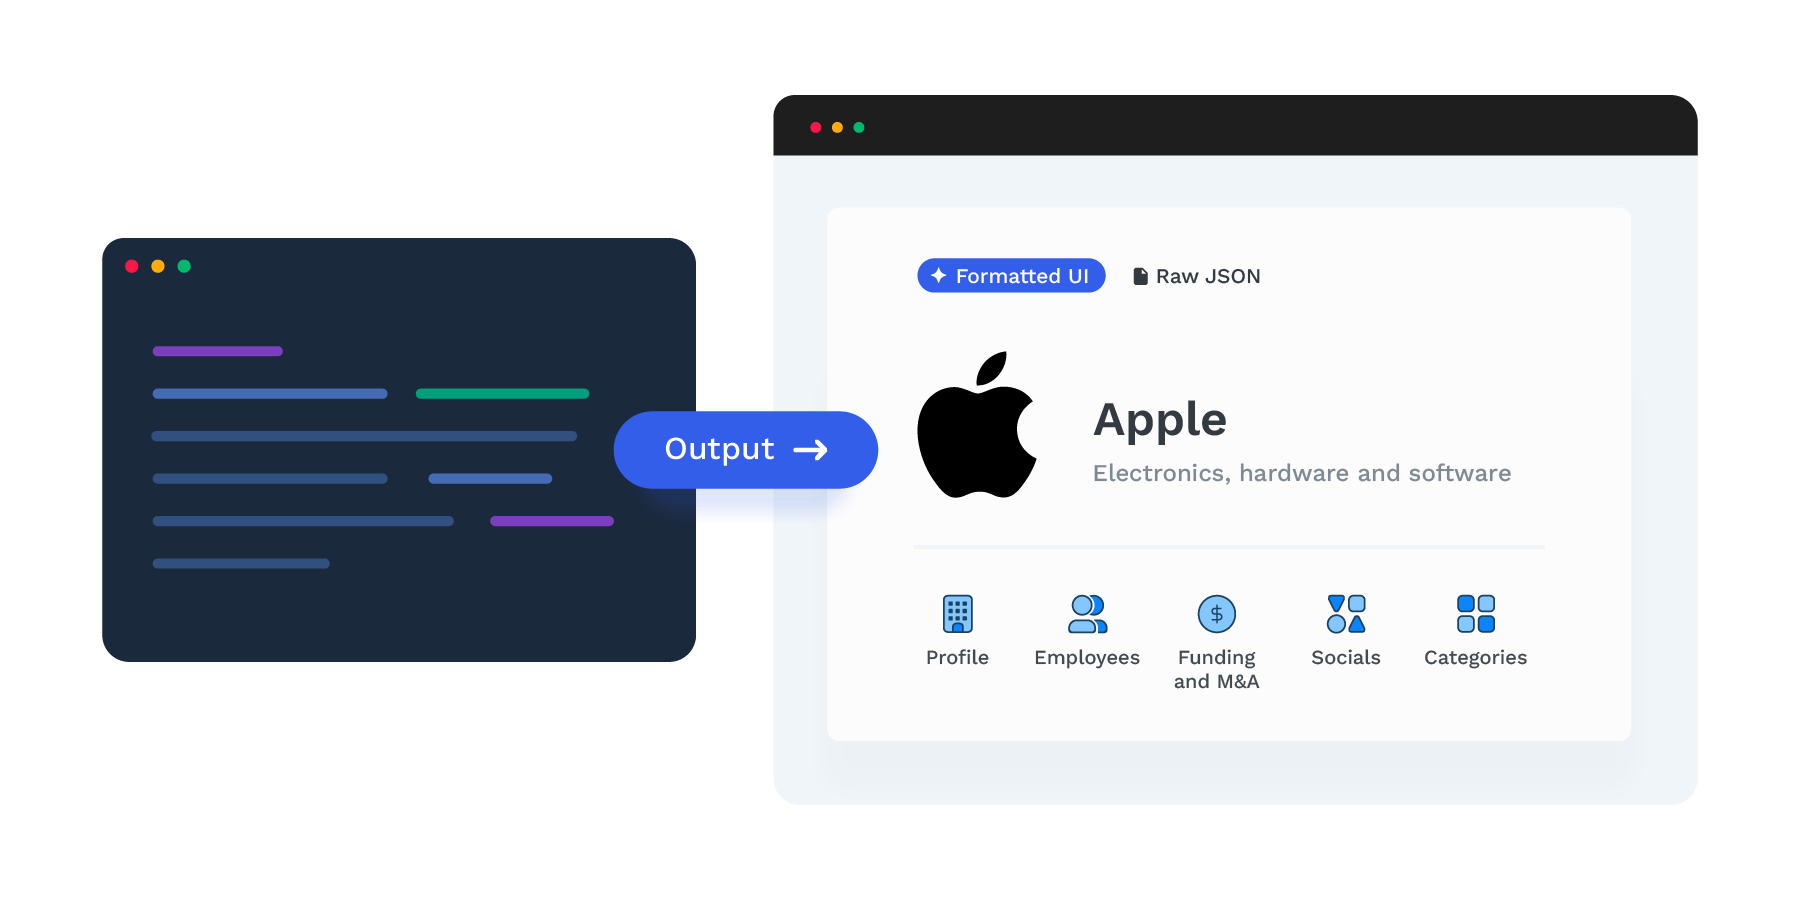
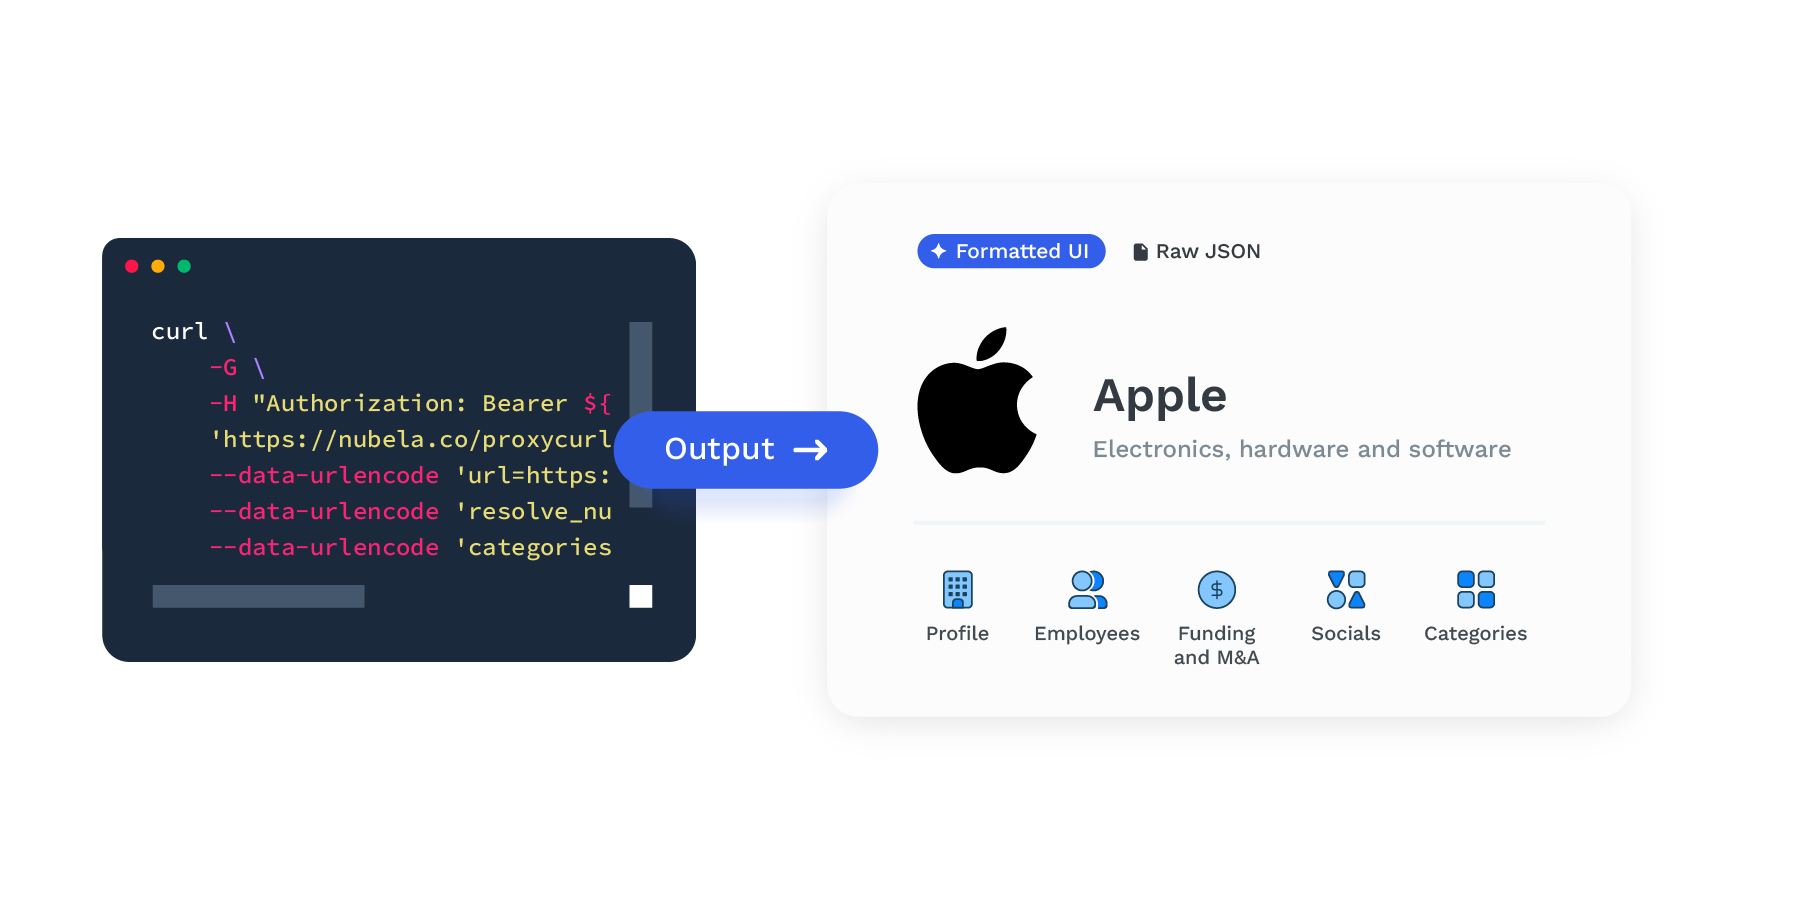
change illustration and improve input

diff --git a/company-api.html b/company-api.html
@@ -282,13 +282,13 @@
               Company API
             </h1>
 
-            <h4 class="h3 text-muted mb-6 mb-md-9">
+            <h4 class="h3 text-muted mb-6 mb-md-3">
                 Enrich LinkedIn company profiles; get funding data, list and search employees, identify companies, get employee count.
             </h4>
           </div>
 
           <div class="col-12 col-md-12 text-center">
-            <img class="img img-fluid rounded mb-6" alt="ooo" src="assets/img/illustrations/Company-api_1_1_.png">
+            <img class="img img-fluid rounded mb-2" alt="ooo" src="assets/img/illustrations/Company-api_1_1_.png">
 
             <div>
             <a class="btn btn-primary d-block d-md-inline-block lift mr-1 mr-md-4 mb-3 mb-md-2" href="#!">
@@ -334,9 +334,10 @@
               <div class="card-body">
                 <span class="badge badge-pill badge-float badge-float-outside badge-info text-uppercase"> Input </span>
     
-                <p class="h3 font-weight-bold shadow-lg text-primary rounded text-left py-4 px-4">
-                  apple.com
-                </p>
+                <div class="h4 font-weight-bold shadow rounded border border-muted text-left py-4 px-4 d-flex">
+                  <div class="fe fe-lock pr-3 pt-1"></div>
+                  <div>Apple.com</div>
+                </div>
     
                 <!--arrow-->
                 <div class="text-center mt-n4">
@@ -498,9 +499,10 @@ curl \
               <div class="card-body">
                 <span class="badge badge-pill badge-float badge-float-outside badge-info text-uppercase"> Input </span>
     
-                <p class="h3 font-weight-bold shadow-lg text-primary rounded text-left py-4 px-4">
-                  linkedin.com/company/apple
-                </p>
+                <div class="h4 font-weight-bold shadow rounded border border-muted text-left py-4 px-4 d-flex">
+                  <div class="fe fe-lock pr-3 pt-1"></div>
+                  <div>linkedin.com<span class="text-muted">/company/apple</span></div>
+                </div>
     
                 <!--arrow-->
                 <div class="text-center mt-n4">
@@ -1127,9 +1129,10 @@ curl \
               <div class="card-body">
                 <span class="badge badge-pill badge-float badge-float-outside badge-info text-uppercase"> Input </span>
     
-                <p class="h3 font-weight-bold shadow-lg text-primary rounded text-left py-4 px-4">
-                  linkedin.com/company/apple
-                </p>
+                <div class="h4 font-weight-bold shadow rounded border border-muted text-left py-4 px-4 d-flex">
+                  <div class="fe fe-lock pr-3 pt-1"></div>
+                  <div>linkedin.com<span class="text-muted">/company/apple</span></div>
+                </div>
     
                 <!--arrow-->
                 <div class="text-center mt-n4">
@@ -1392,9 +1395,10 @@ curl \
               <div class="card-body">
                 <span class="badge badge-pill badge-float badge-float-outside badge-info text-uppercase"> Input </span>
     
-                <p class="h3 font-weight-bold shadow-lg text-primary rounded text-left py-4 px-4">
-                  linkedin.com/company/apple
-                </p>
+                <div class="h4 font-weight-bold shadow rounded border border-muted text-left py-4 px-4 d-flex">
+                  <div class="fe fe-lock pr-3 pt-1"></div>
+                  <div>linkedin.com<span class="text-muted">/company/apple</span></div>
+                </div>
     
                 <!--arrow-->
                 <div class="text-center mt-n4">
@@ -1556,9 +1560,10 @@ curl \
               <div class="card-body">
                 <span class="badge badge-pill badge-float badge-float-outside badge-info text-uppercase"> Input </span>
     
-                <p class="h3 font-weight-bold shadow-lg text-primary rounded text-left py-4 px-4">
-                  linkedin.com/company/apple
-                </p>
+                <div class="h4 font-weight-bold shadow rounded border border-muted text-left py-4 px-4 d-flex">
+                  <div class="fe fe-lock pr-3 pt-1"></div>
+                  <div>linkedin.com<span class="text-muted">/company/apple</span></div>
+                </div>
     
                 <!--arrow-->
                 <div class="text-center mt-n4">
